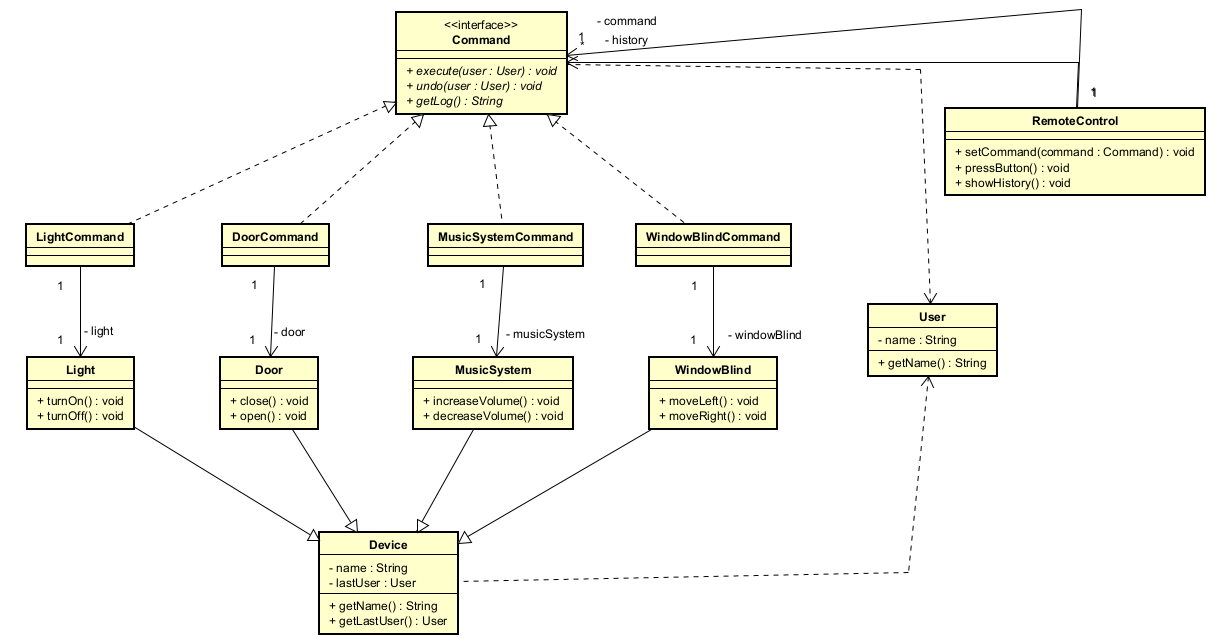
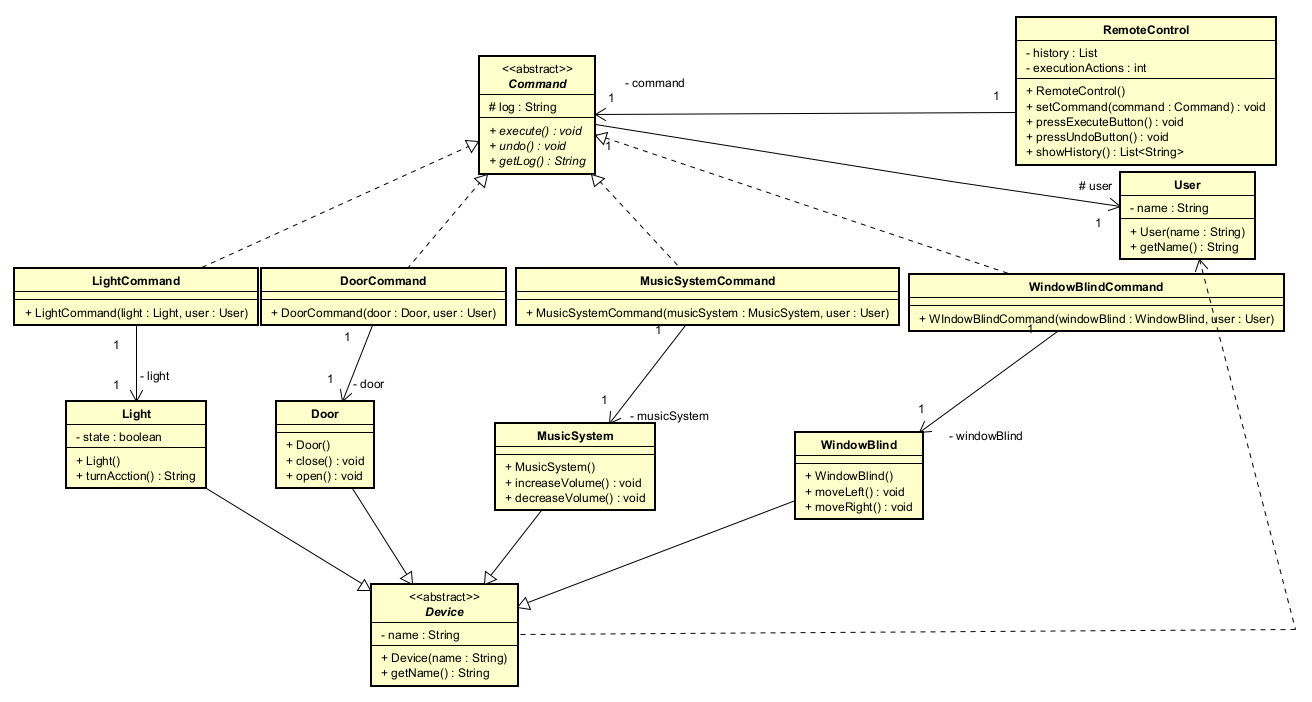
feat: initial implemented challenge 7

diff --git a/src/main/java/edu/eci/dosw/reto7/RemoteControl.java b/src/main/java/edu/eci/dosw/reto7/RemoteControl.java
@@ -1,0 +1,34 @@
+package edu.eci.dosw.reto7;
+import java.util.List;
+import java.util.ArrayList;
+
+public class RemoteControl {
+    private List<String> history;
+    private Command command;
+    private int executionActions;
+
+    public RemoteControl(){
+        history = new ArrayList<>();
+        executionActions = 0;
+    }
+    public void setCommand(Command command){
+        this.command = command;
+    }
+    public void pressExecuteBotton(){
+        command.execute();
+        executionActions++;
+        history.add(command.getLog());
+    }
+    public void pressUndoBotton(){
+        if(executionActions > 0){
+            command.undo();
+            history.add(command.getLog());
+            executionActions--;
+        }
+    }
+    public List<String> getHistory(){
+        return history;
+    }
+
+    
+}

diff --git a/src/main/java/edu/eci/dosw/reto7/Reto7.java b/src/main/java/edu/eci/dosw/reto7/Reto7.java
@@ -1,5 +1,18 @@
 package edu.eci.dosw.reto7;
 
 public class Reto7 {
-    
+    public static void main(String[] args){
+        Light light = new Light();
+        LightCommand lc = new LightCommand(light, new User("Juan"));
+        RemoteControl rc = new RemoteControl();
+        rc.setCommand(lc);
+        rc.pressExecuteBotton();
+        rc.pressUndoBotton();
+        rc.pressUndoBotton();
+        
+        lc = new LightCommand(light, new User("Pedro"));
+        rc.setCommand(lc);
+        rc.pressExecuteBotton();
+        rc.getHistory().stream().forEach(c -> System.out.println(c+"\n"));
+    }
 }

diff --git a/src/main/java/edu/eci/dosw/reto7/LightCommand.java b/src/main/java/edu/eci/dosw/reto7/LightCommand.java
@@ -1,0 +1,24 @@
+package edu.eci.dosw.reto7;
+
+public class LightCommand extends Command {
+    private Light light;
+
+    public LightCommand(Light light,User user){
+        this.light = light;
+        this.user = user;
+        this.log = "No command execute";
+    }
+    @Override
+    public void execute(){
+        log = "Command execute By "+ user.getName()+" "+light.turnAcction();
+    }
+    @Override
+    public void undo(){
+        log = "Command undo By "+ user.getName()+" "+light.turnAcction();
+    }
+    @Override
+    public String getLog(){
+        return this.log;
+    }
+    
+}

diff --git a/src/main/java/edu/eci/dosw/reto7/Light.java b/src/main/java/edu/eci/dosw/reto7/Light.java
@@ -1,0 +1,19 @@
+package edu.eci.dosw.reto7;
+
+public class Light extends Device {
+    private boolean state;
+    public Light(){
+        super("Light");
+        state = false;
+    }
+
+    public String turnAcction(){
+        if (!state){
+            state = true;
+            return "Turn on: "+this.getName();
+        }else {
+            state = false;
+            return "Turn off: "+this.getName();
+        }
+    } 
+}

diff --git a/src/main/java/edu/eci/dosw/reto7/Command.java b/src/main/java/edu/eci/dosw/reto7/Command.java
@@ -1,0 +1,9 @@
+package edu.eci.dosw.reto7;
+
+public abstract class Command {
+    protected User user;
+    protected String log;
+    public abstract void execute();
+    public abstract void undo();
+    public abstract String getLog();
+}

diff --git a/src/main/java/edu/eci/dosw/reto7/Device.java b/src/main/java/edu/eci/dosw/reto7/Device.java
@@ -1,0 +1,13 @@
+package edu.eci.dosw.reto7;
+
+public abstract class Device {
+    private String name;
+
+    public Device(String name){
+        this.name = name;
+    }
+
+    public String getName(){
+        return this.name;
+    }
+}

diff --git a/src/main/java/edu/eci/dosw/reto7/User.java b/src/main/java/edu/eci/dosw/reto7/User.java
@@ -1,0 +1,11 @@
+package edu.eci.dosw.reto7;
+
+public class User {
+    private String name;
+    public User(String name){
+        this.name = name;
+    }
+    public String getName(){
+        return name;
+    }
+}
